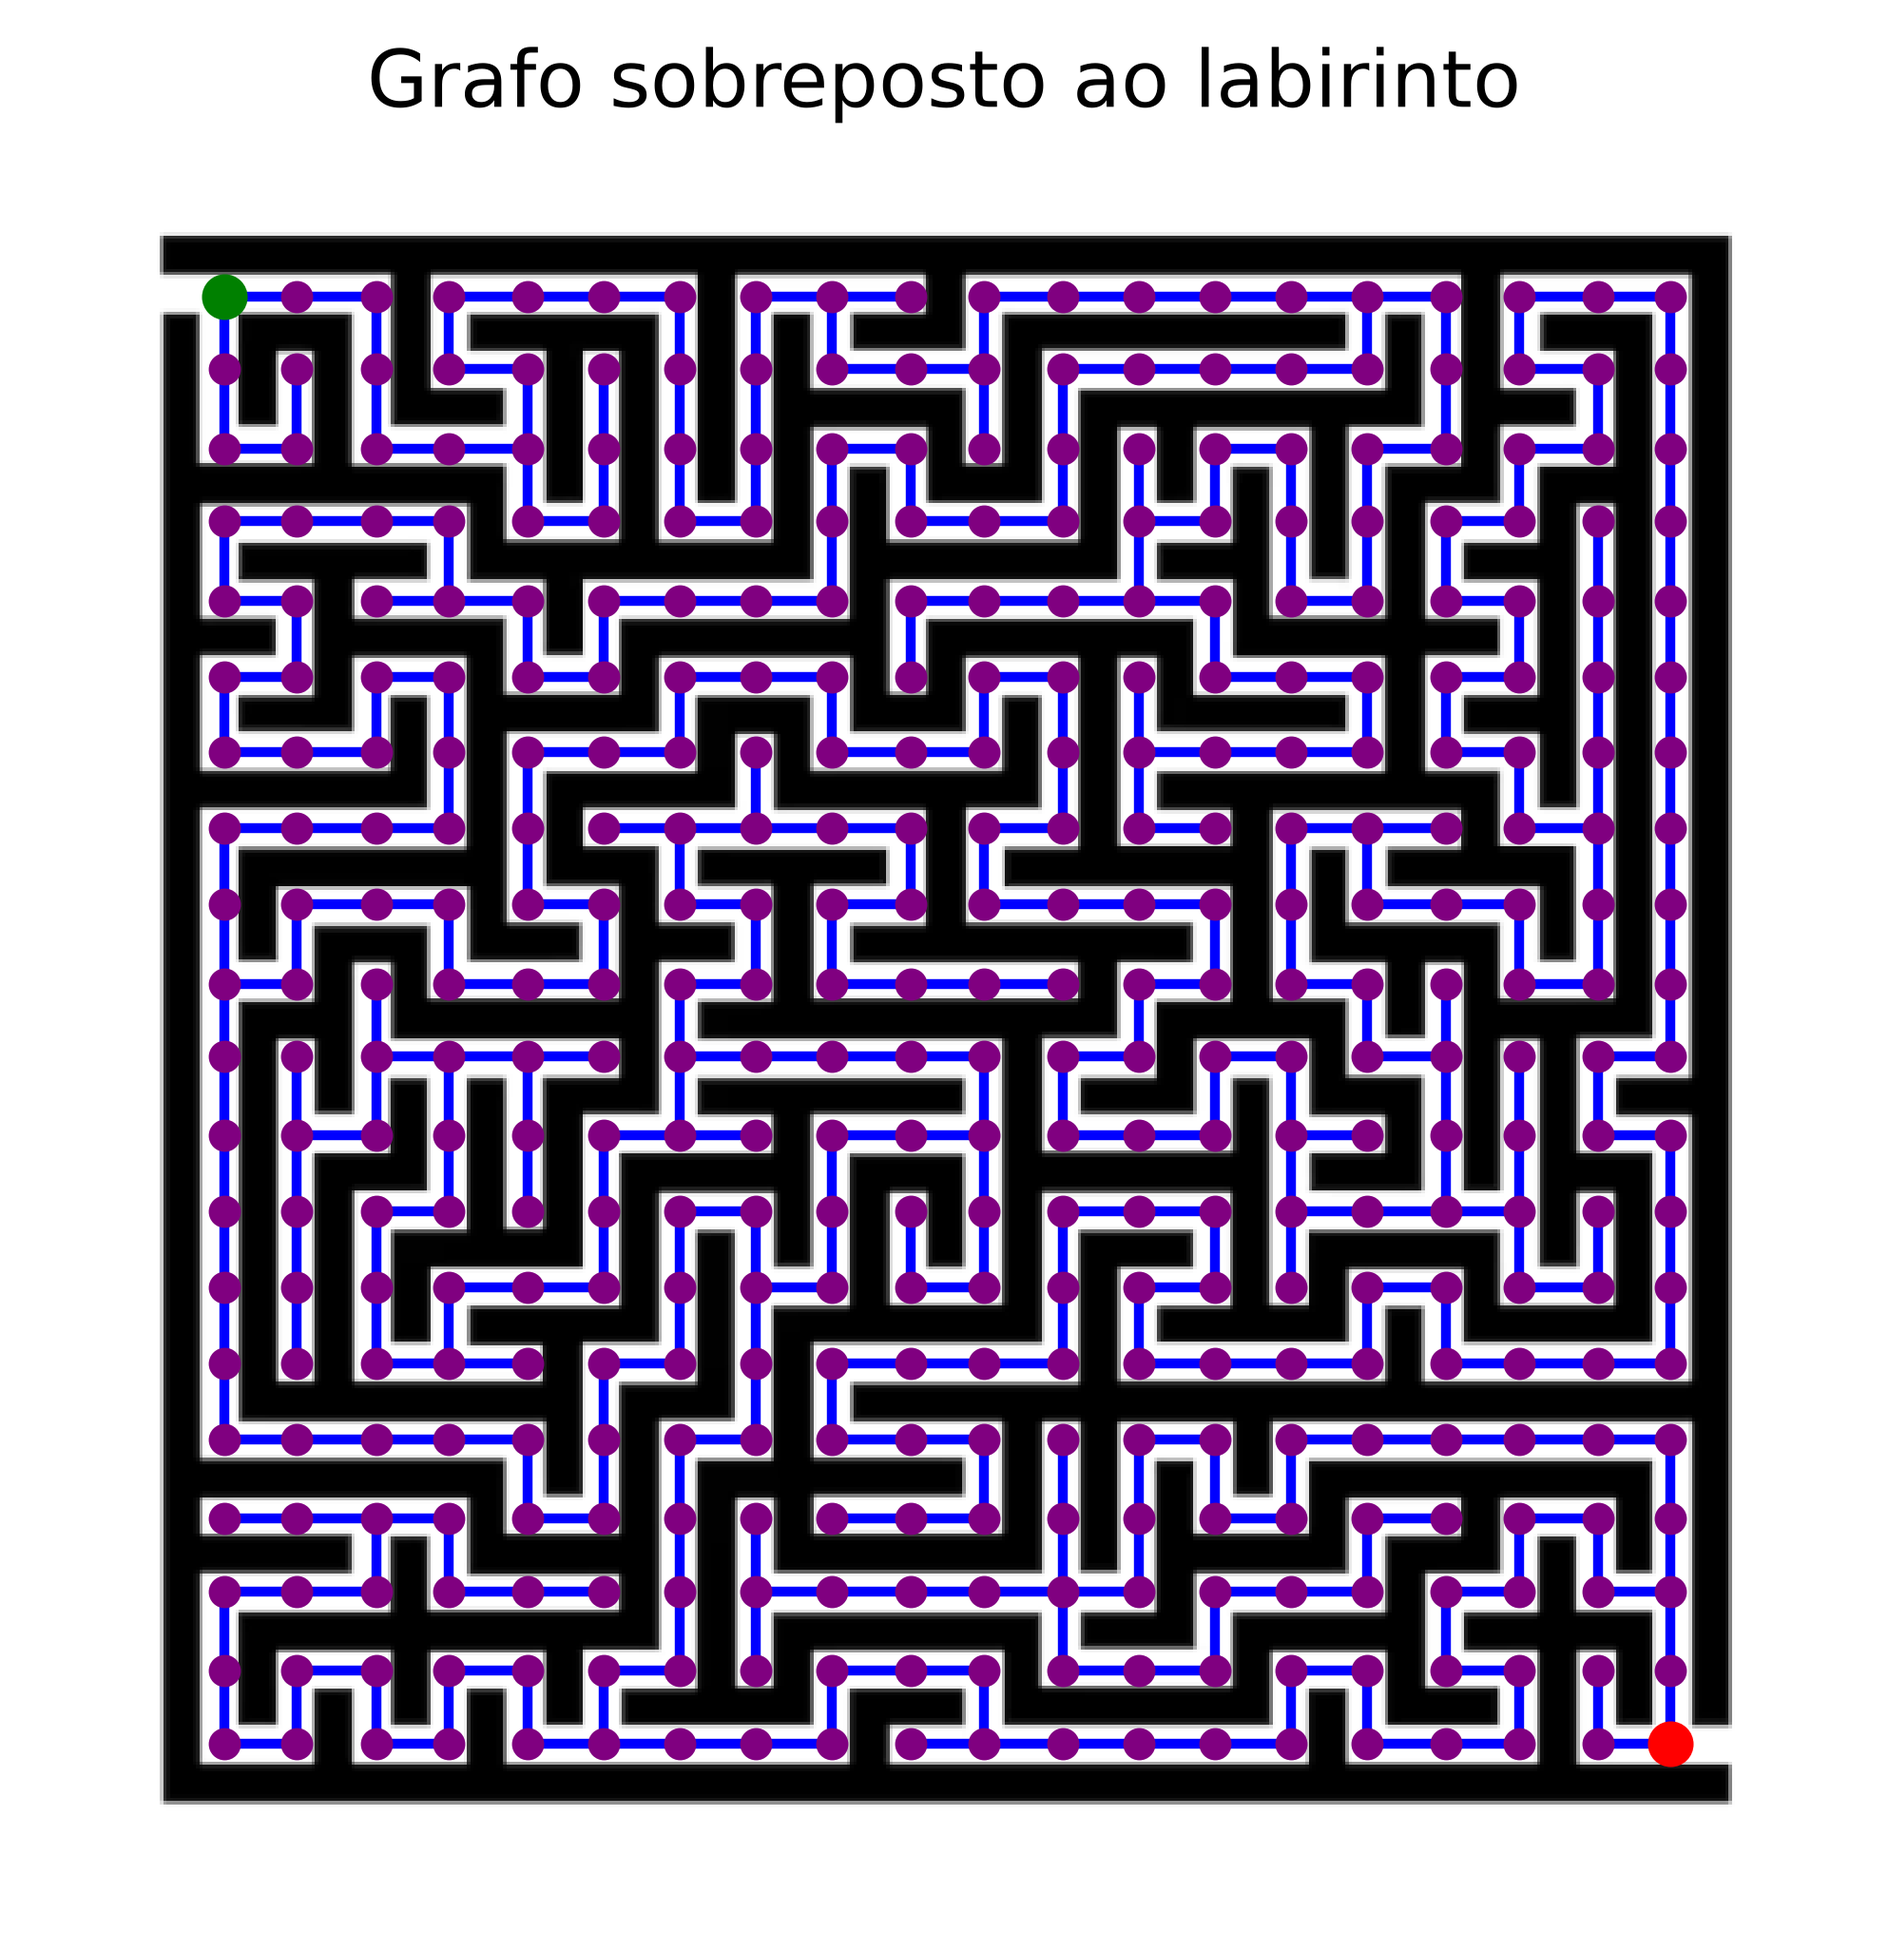
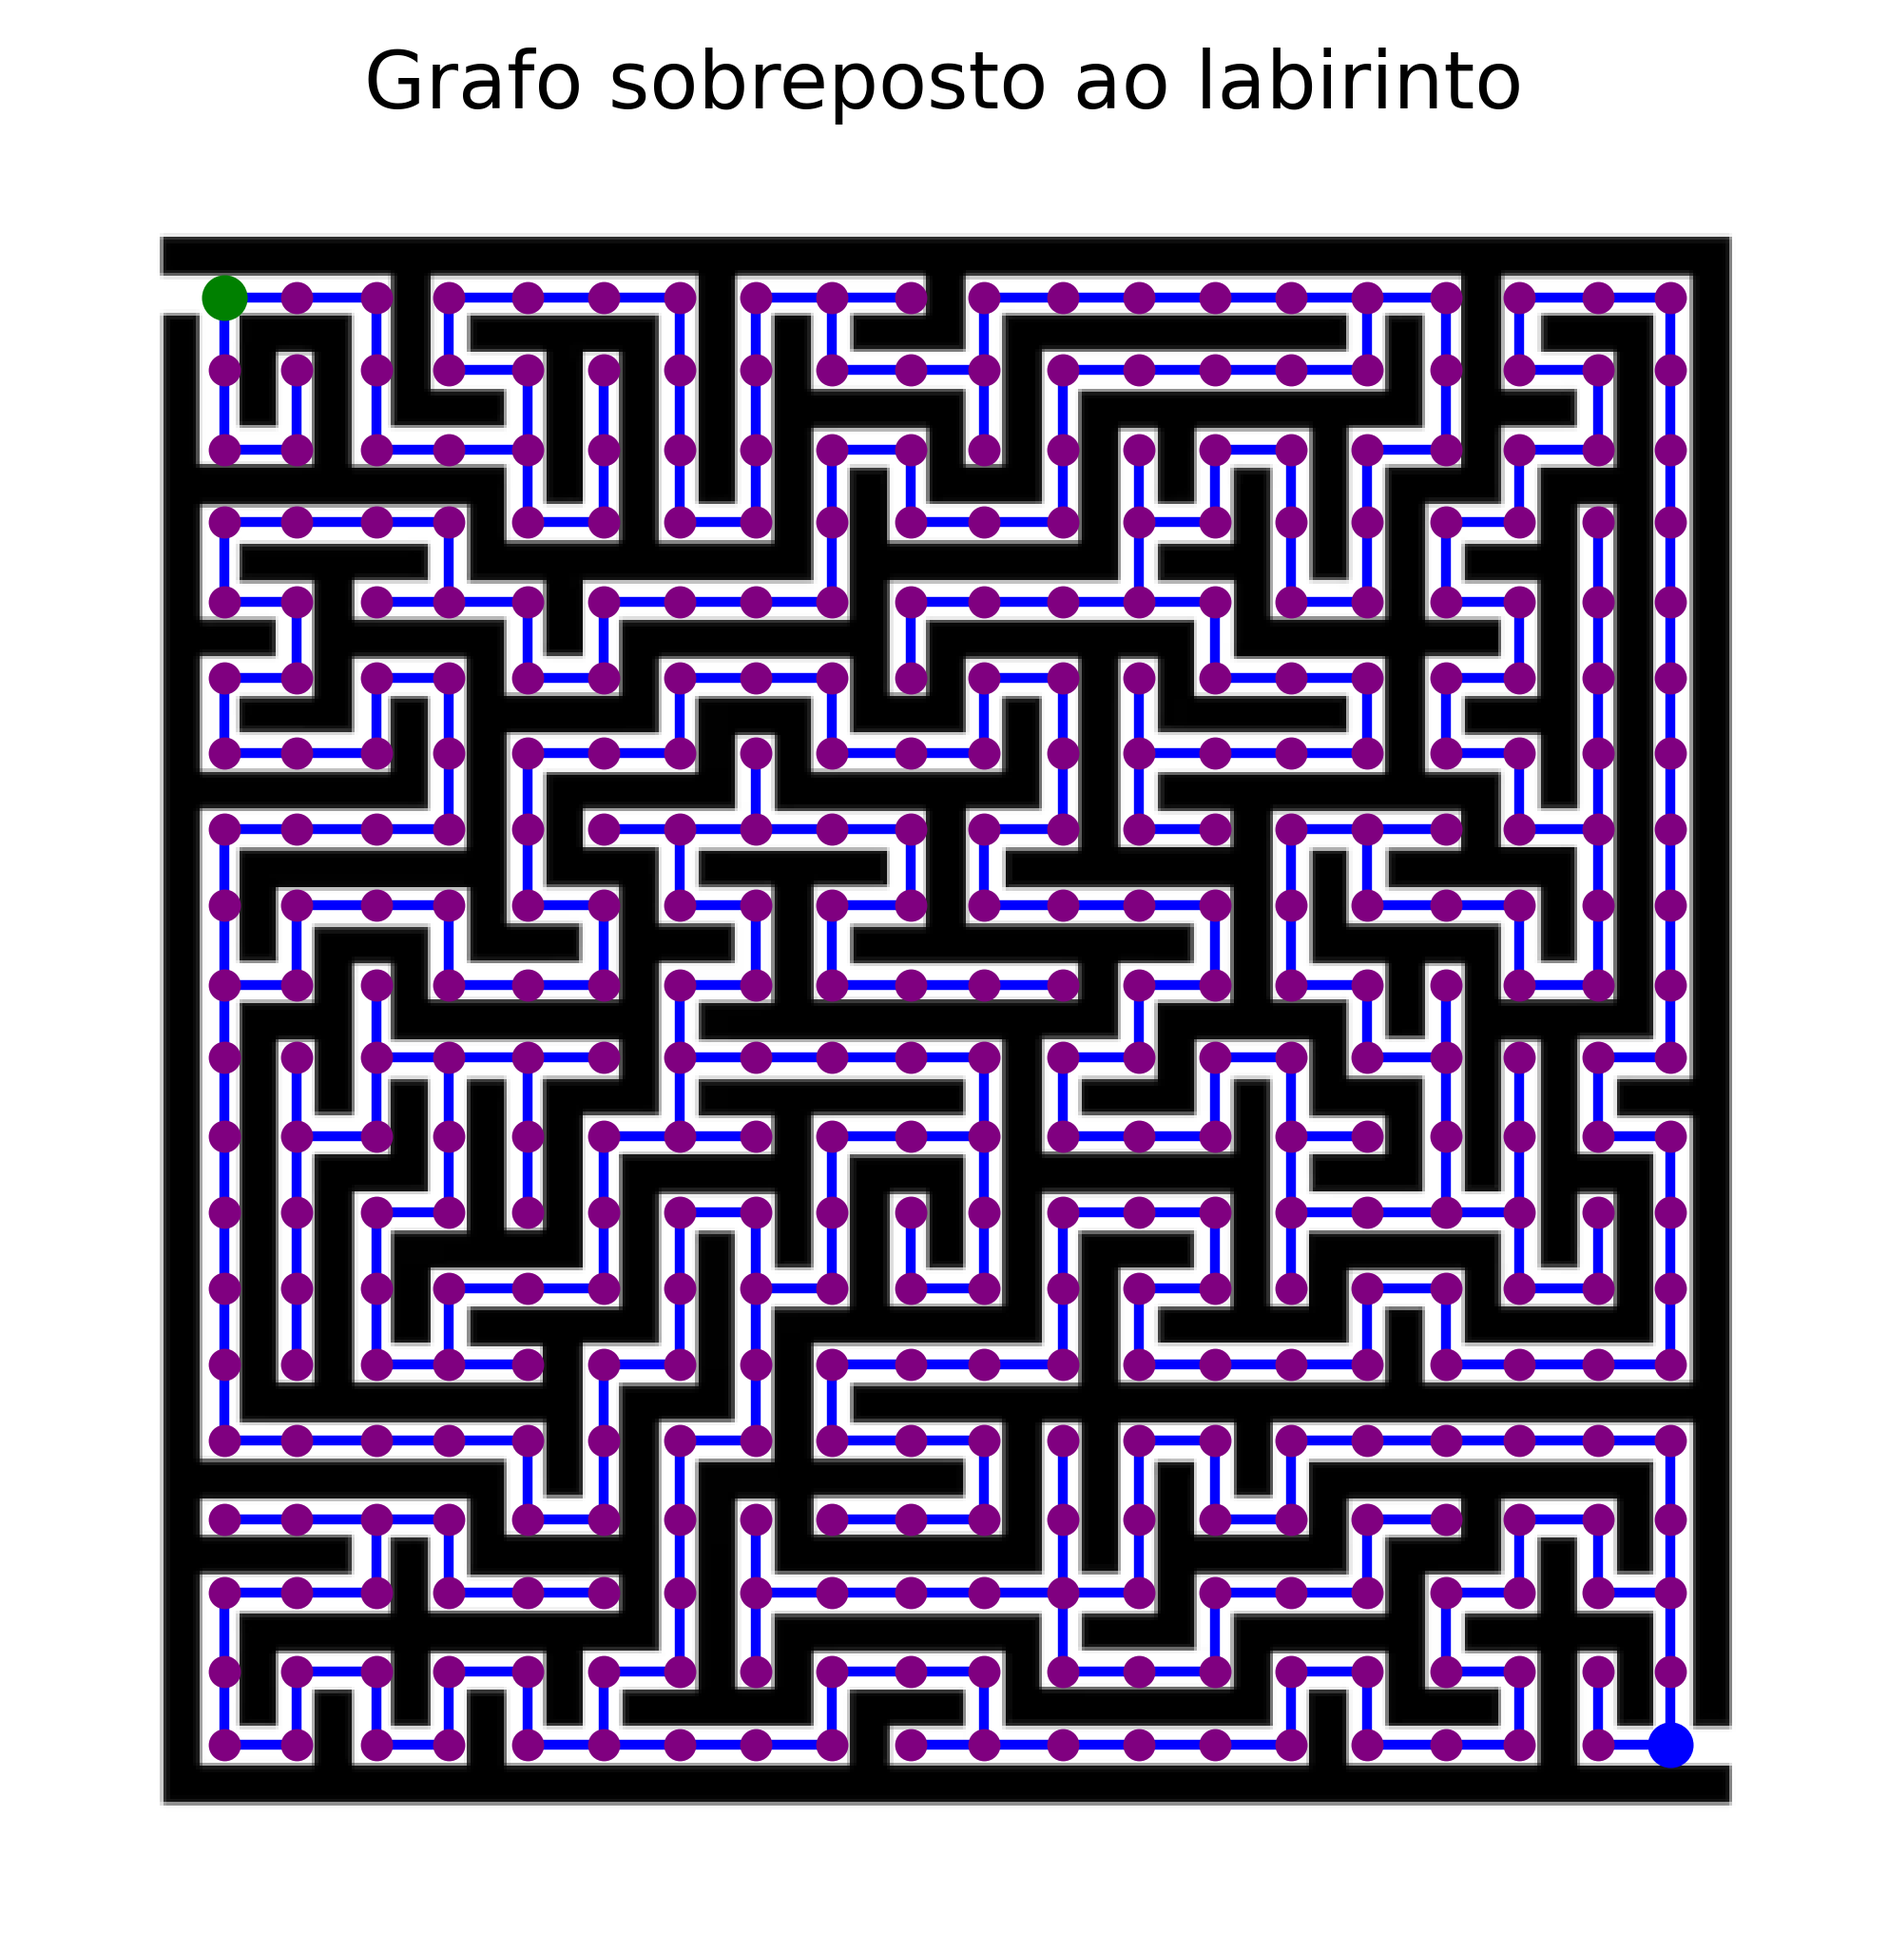
Edita cor de vértice final e posição de entrada e saída

diff --git a/shortest_path/parte_7.py b/shortest_path/parte_7.py
@@ -39,7 +39,7 @@ if __name__ == '__main__':
 
     plt.scatter(x_coords[1:-1], y_coords[1:-1], c='orange', s=15, zorder=2)
     plt.scatter(x_coords[0], y_coords[0], c='green', s=35, zorder=2)
-    plt.scatter(x_coords[-1], y_coords[-1], c='red', s=35, zorder=2)
+    plt.scatter(x_coords[-1], y_coords[-1], c='blue', s=35, zorder=2)
 
     # salva a imagem em 'img'
     plt.savefig(IMG / 'apenas_caminho_minimo.png', dpi=500, bbox_inches='tight')
@@ -69,7 +69,7 @@ if __name__ == '__main__':
 
     plt.scatter(x_coords[1:-1], y_coords[1:-1], c='orange', s=15, zorder=2)
     plt.scatter(x_coords[0], y_coords[0], c='green', s=35, zorder=2)
-    plt.scatter(x_coords[-1], y_coords[-1], c='red', s=35, zorder=2)
+    plt.scatter(x_coords[-1], y_coords[-1], c='blue', s=35, zorder=2)
 
     x_coords = [centros[v][0] for v in celulas if v not in caminho]
     y_coords = [centros[v][1] for v in celulas if v not in caminho]

diff --git a/shortest_path/parte_1.py b/shortest_path/parte_1.py
@@ -58,13 +58,13 @@ if __name__ == '__main__':
     linha_entrada = np.where(M[:, 0] == 1)[0]
     if linha_entrada.size == 0:
         raise ValueError('Labirinto inválido')
-    plt.scatter(0 + tol, (linha_entrada.min() + linha_entrada.max()) / 2, c='green', s = 35)
+    plt.scatter(11 + tol, (linha_entrada.min() + linha_entrada.max()) / 2, c='green', s = 35)
 
     # saída
     linha_saida = np.where(M[:, -1] == 1)[0]
     if linha_saida.size == 0:
         raise ValueError('Labirinto inválido')
-    plt.scatter((colunas - 1) - tol, (linha_saida.min() + linha_saida.max()) / 2, c='red', s = 35)
+    plt.scatter((colunas - 11) - tol, (linha_saida.min() + linha_saida.max()) / 2, c='blue', s = 35)
 
     print(f'Entrada: {(0, float((linha_entrada.min() + linha_entrada.max()) / 2))}\nSaída: {(colunas - 1, float((linha_saida.min() + linha_saida.max()) / 2))}')
 

diff --git a/shortest_path/parte_3.py b/shortest_path/parte_3.py
@@ -33,7 +33,7 @@ if __name__ == '__main__':
 
     plt.scatter(x_coords[1:-1], y_coords[1:-1], c='purple', s=15, zorder=2)
     plt.scatter(x_coords[0], y_coords[0], c='green', s=35, zorder=2)
-    plt.scatter(x_coords[-1], y_coords[-1], c='red', s=35, zorder=2)
+    plt.scatter(x_coords[-1], y_coords[-1], c='blue', s=35, zorder=2)
 
     # salva a imagem em 'img'
     plt.savefig(IMG / 'labirinto_grafo_completo.png', dpi=500, bbox_inches='tight')
